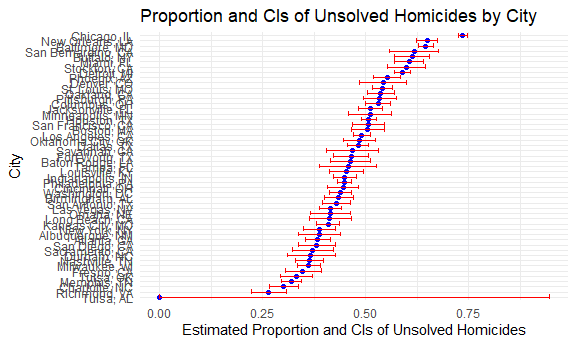
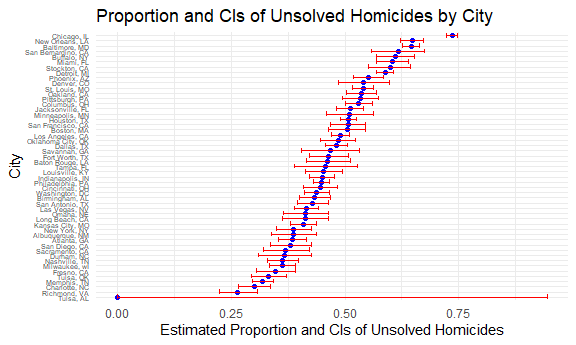
final version

Changed region(s): [[0.0312, 0.029, 0.9375, 0.9855], [0.4062, 0.1159, 0.75, 0.8696]]

diff --git a/p8105_hw5_yc4584.md b/p8105_hw5_yc4584.md
@@ -144,7 +144,24 @@ sim_t_test_results =
    results = map2(n, mu, t_test_result)
   ) |> 
   unnest(results)
+
+sim_t_test_results
 ```
+
+    ## # A tibble: 5,000 × 5
+    ##        n    mu  iter    mean p_value
+    ##    <dbl> <dbl> <int>   <dbl>   <dbl>
+    ##  1    30     0     1 -1.62    0.0545
+    ##  2    30     0     2 -0.542   0.569 
+    ##  3    30     0     3 -0.278   0.767 
+    ##  4    30     0     4 -0.303   0.733 
+    ##  5    30     0     5  0.406   0.637 
+    ##  6    30     0     6  0.147   0.881 
+    ##  7    30     0     7  1.20    0.191 
+    ##  8    30     0     8 -0.0542  0.957 
+    ##  9    30     0     9 -0.119   0.878 
+    ## 10    30     0    10 -1.89    0.0712
+    ## # ℹ 4,990 more rows
 
 ## now I will repeat the above steps for μ=1:6
 
@@ -159,7 +176,24 @@ sim_t_test_results_1_6 =
     results = map2(n, mu, t_test_result)
   ) |> 
   unnest(results)
+
+sim_t_test_results_1_6
 ```
+
+    ## # A tibble: 30,000 × 5
+    ##        n    mu  iter   mean p_value
+    ##    <dbl> <dbl> <int>  <dbl>   <dbl>
+    ##  1    30     1     1 1.67   0.0605 
+    ##  2    30     1     2 2.65   0.00299
+    ##  3    30     1     3 1.05   0.228  
+    ##  4    30     1     4 1.81   0.0295 
+    ##  5    30     1     5 1.32   0.219  
+    ##  6    30     1     6 2.03   0.0166 
+    ##  7    30     1     7 0.0984 0.912  
+    ##  8    30     1     8 1.45   0.203  
+    ##  9    30     1     9 0.417  0.650  
+    ## 10    30     1    10 1.74   0.0267 
+    ## # ℹ 29,990 more rows
 
 ## Make a plot showing the association of power and different values of μ
 
@@ -175,6 +209,21 @@ power_results =
     power = mean(p_value < 0.05)
   )
 
+power_results
+```
+
+    ## # A tibble: 7 × 2
+    ##      mu power
+    ##   <dbl> <dbl>
+    ## 1     0 0.05 
+    ## 2     1 0.187
+    ## 3     2 0.569
+    ## 4     3 0.887
+    ## 5     4 0.987
+    ## 6     5 0.999
+    ## 7     6 1
+
+``` r
 power_plot =
   ggplot(power_results, aes(x = mu, y = power)) +
   geom_line() +
@@ -217,6 +266,28 @@ mean_results =
                         avg_estimate_all = "All Samples", 
                         avg_estimate_rejected = "Rejected Samples"))
 
+mean_results
+```
+
+    ## # A tibble: 14 × 3
+    ##       mu type             avg_estimate
+    ##    <dbl> <chr>                   <dbl>
+    ##  1     0 All Samples           0.00500
+    ##  2     0 Rejected Samples      0.236  
+    ##  3     1 All Samples           0.992  
+    ##  4     1 Rejected Samples      2.21   
+    ##  5     2 All Samples           2.01   
+    ##  6     2 Rejected Samples      2.62   
+    ##  7     3 All Samples           3.01   
+    ##  8     3 Rejected Samples      3.20   
+    ##  9     4 All Samples           4.01   
+    ## 10     4 Rejected Samples      4.04   
+    ## 11     5 All Samples           5.01   
+    ## 12     5 Rejected Samples      5.01   
+    ## 13     6 All Samples           6.00   
+    ## 14     6 Rejected Samples      6.00
+
+``` r
 # Now I will make an overlapping plot
 comparison_plot = 
   ggplot(mean_results, aes(x = mu, y = avg_estimate, color = type)) +
@@ -421,13 +492,25 @@ city_summary_with_prop =
     prop_test_results = map2(unsolved_homicides, city_homicides, prop_test)
   ) |> 
   unnest(prop_test_results)
+
+city_summary_with_prop
 ```
 
-    ## Warning: There was 1 warning in `mutate()`.
-    ## ℹ In argument: `prop_test_results = map2(unsolved_homicides, city_homicides,
-    ##   prop_test)`.
-    ## Caused by warning in `prop.test()`:
-    ## ! Chi-squared近似算法有可能不准
+    ## # A tibble: 51 × 7
+    ##    city_state      city_homicides unsolved_homicides estimate conf_low conf_high
+    ##    <chr>                    <int>              <int>    <dbl>    <dbl>     <dbl>
+    ##  1 Albuquerque, NM            378                146    0.386    0.337     0.438
+    ##  2 Atlanta, GA                973                373    0.383    0.353     0.415
+    ##  3 Baltimore, MD             2827               1825    0.646    0.628     0.663
+    ##  4 Baton Rouge, LA            424                196    0.462    0.414     0.511
+    ##  5 Birmingham, AL             800                347    0.434    0.399     0.469
+    ##  6 Boston, MA                 614                310    0.505    0.465     0.545
+    ##  7 Buffalo, NY                521                319    0.612    0.569     0.654
+    ##  8 Charlotte, NC              687                206    0.300    0.266     0.336
+    ##  9 Chicago, IL               5535               4073    0.736    0.724     0.747
+    ## 10 Cincinnati, OH             694                309    0.445    0.408     0.483
+    ## # ℹ 41 more rows
+    ## # ℹ 1 more variable: confidence_interval <chr>
 
 ## Create a plot that shows the estimates and CIs for each city
 
@@ -443,7 +526,10 @@ city_summary_with_prop_plot =
              title = "Proportion and CIs of Unsolved Homicides by City",
              x = "City",
              y = "Estimated Proportion and CIs of Unsolved Homicides"
-  )
+  ) + 
+    theme(
+    axis.text.y = element_text(size = 5)
+  ) 
 
 city_summary_with_prop_plot
 ```
